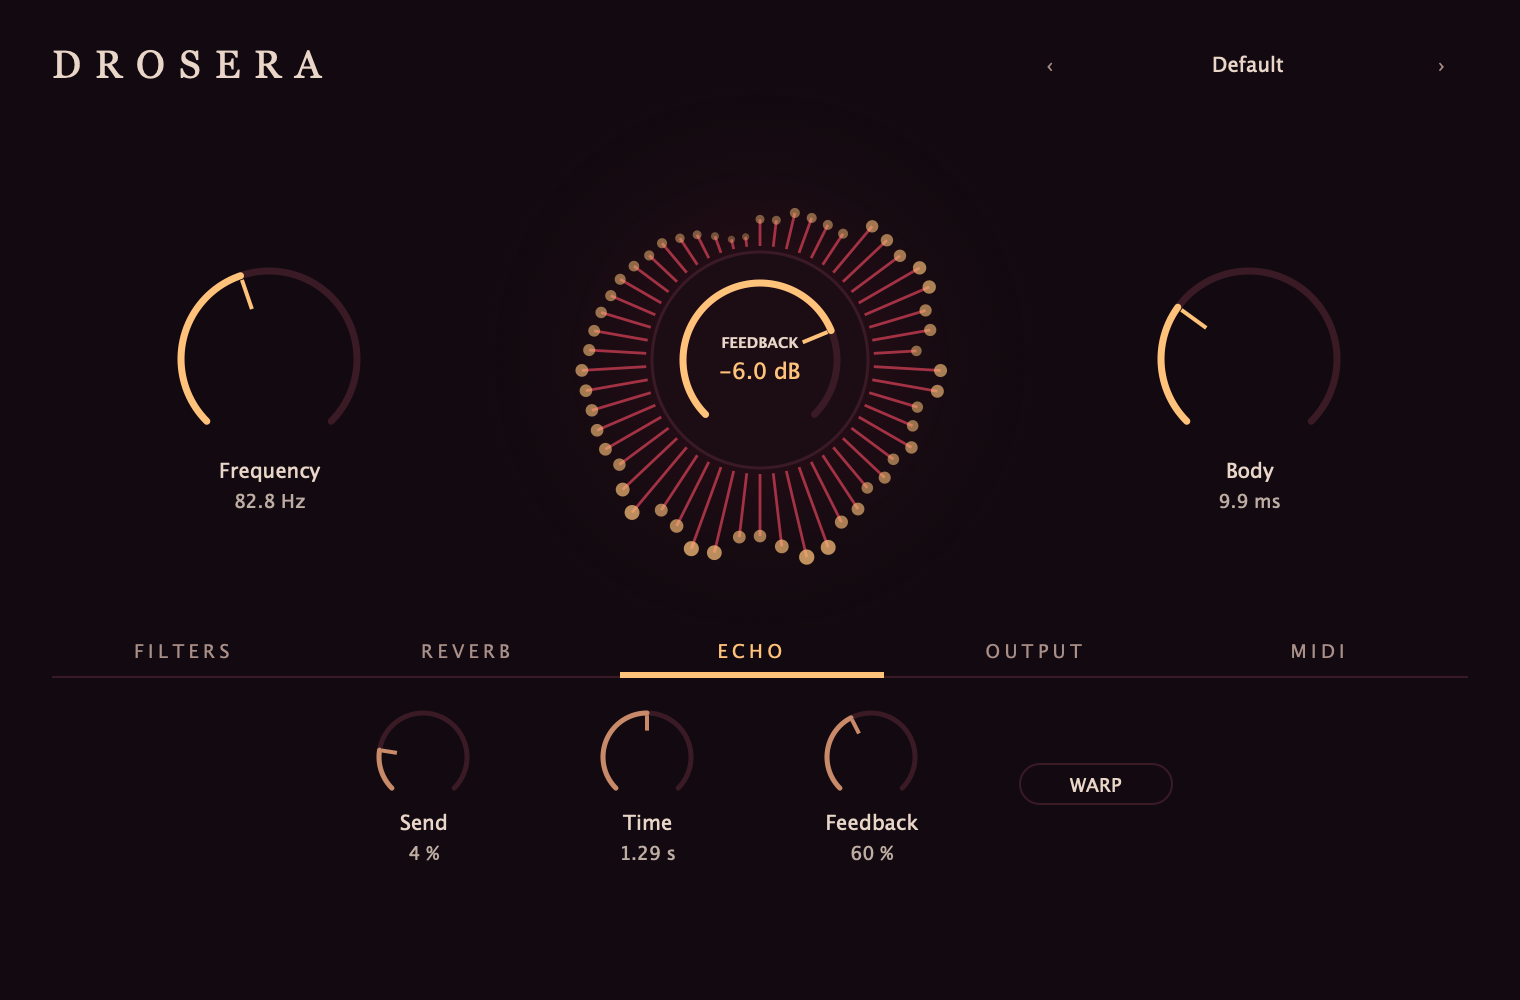
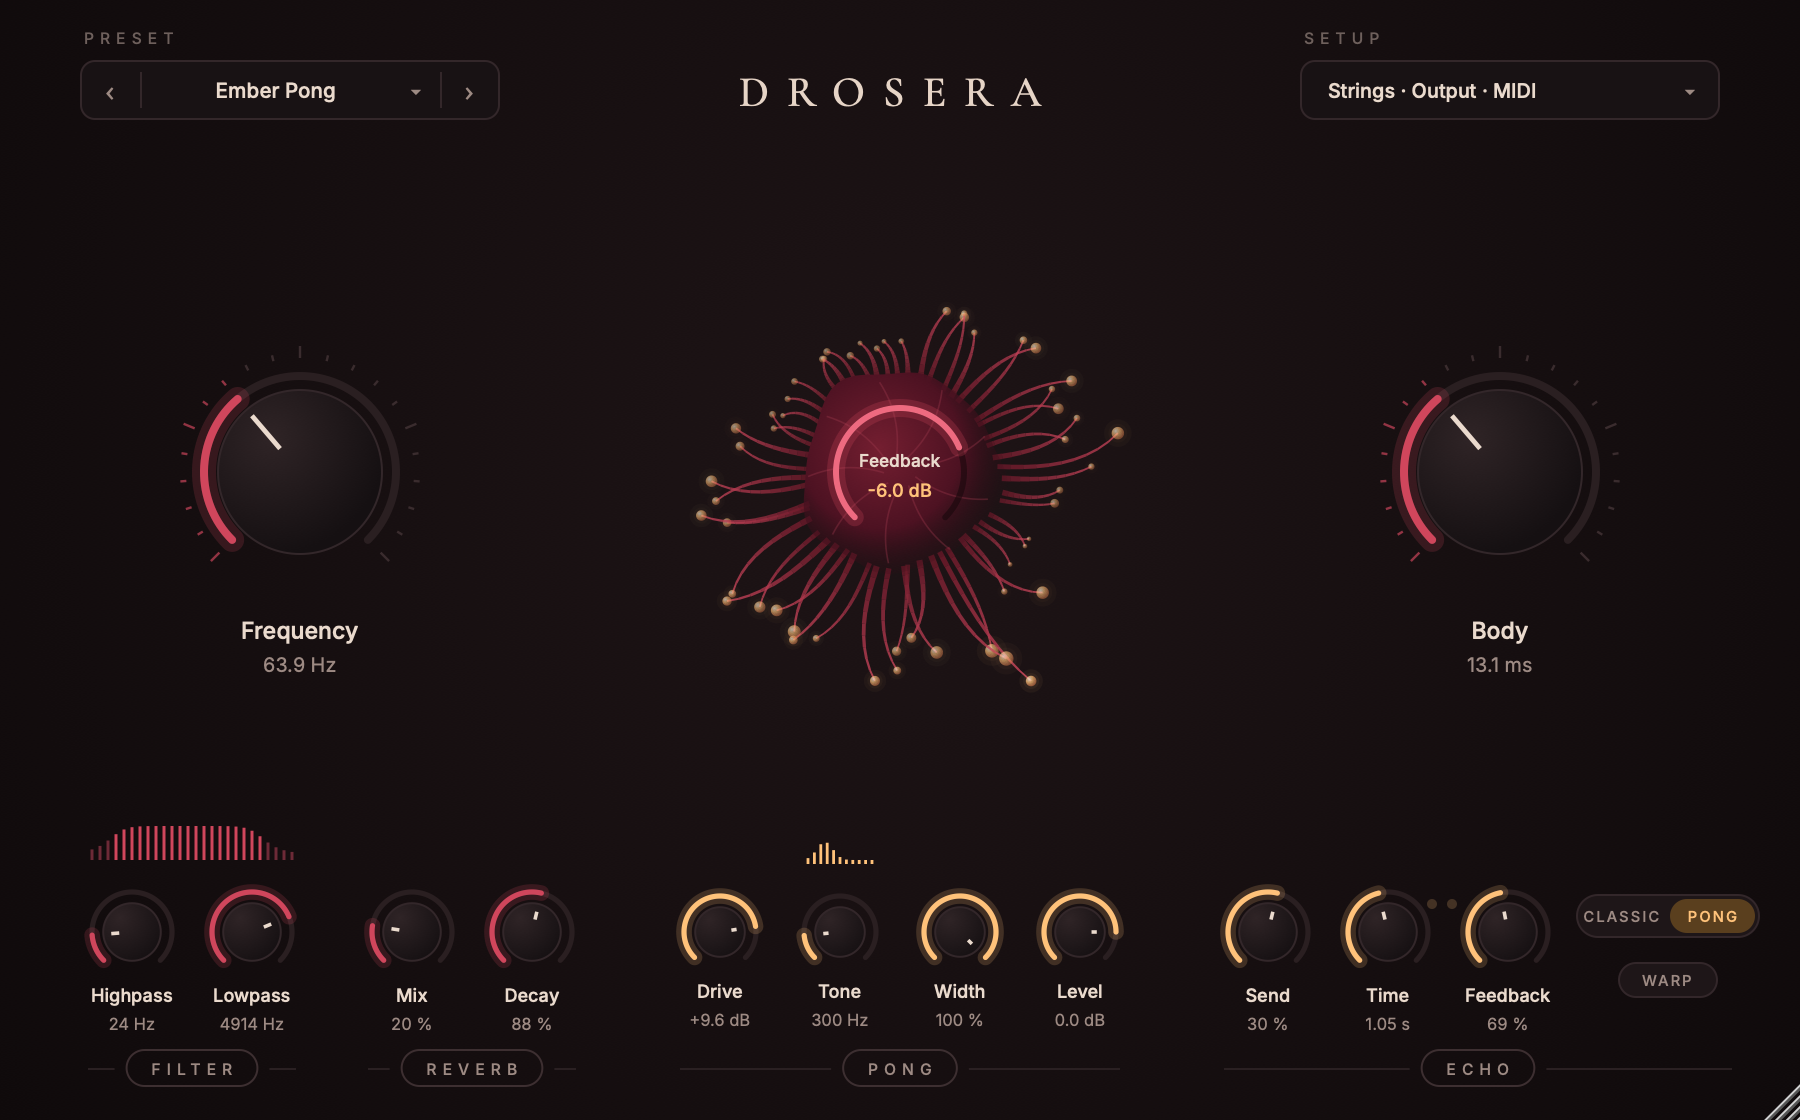
Describe the new window in the README and the build guide, and list the embedded fonts

diff --git a/README.md b/README.md
@@ -1,12 +1,12 @@
 # Drosera
 
-![Drosera's interface: a sundew whose tentacles show the sound's spectrum, with Feedback at its heart](docs/images/drosera.png)
+![Drosera's window: a sundew whose tentacles show the sound's spectrum, Feedback at its heart, Frequency and Body beside it, and one row of filter, reverb and echo controls below](docs/images/drosera.png)
 
 A feedback drone synth, as a VST3 plugin for macOS 11 or newer, on Apple silicon and Intel.
 
 Drosera makes sound on its own: a noise floor feeds two string resonators inside a saturating loop, and you steer
-what the loop settles on. Play it with its knobs, excite it with audio, or put it on a note with MIDI. It comes with
-15 presets.
+what the loop settles on. Play it with its knobs, excite it with audio, or put it on a note with MIDI, up to three
+notes at once. It comes with 16 presets.
 
 ## Install
 
@@ -23,6 +23,12 @@ xattr -dr com.apple.quarantine ~/Library/Audio/Plug-Ins/VST3/Drosera.vst3
 ```
 
 ## Using it
+
+Everything is on one page. In the middle, a sundew shows the sound's real spectrum: each tentacle is a frequency band,
+from the lowest at the top, clockwise, and it unfurls as its band sounds. Feedback sits at its heart, with Frequency and
+Body beside it. Below, one row holds the filters, the reverb and the echo, with its PONG controls. Red controls are
+inside the feedback loop and change what the drone sustains; amber ones come after it and colour what comes out.
+Strings, Output and MIDI open from the SETUP field. Drag the window's corner to scale it from 75 % to 150 %.
 
 See the [manual](docs/MANUAL.md) for every control, MIDI, and the known limits.
 

diff --git a/docs/BUILDING.md b/docs/BUILDING.md
@@ -43,8 +43,9 @@ Checks how MIDI notes are assigned to the three voices, with no JUCE.
 build/ui_test_artefacts/Release/ui_test
 ```
 
-Covers the interface: the spectrum path to the plant, the readouts, tabs, and what the editor shows while MIDI and WARP
-change what sounds. It opens no window on screen.
+Covers the interface: the spectrum path to the plant, the plant's shape and how it follows the sound, the filter and
+Tone arcs, the readouts, the setup panel, the window's scale, and what the editor shows while MIDI, POLY and WARP change
+what sounds. It opens no window on screen.
 
 ```bash
 build/plugin_host_test_artefacts/Release/plugin_host_test build/Drosera_artefacts/Release/VST3/Drosera.vst3 tests/fixtures/state-baseline.bin
@@ -66,6 +67,7 @@ proves the engine still renders exactly the same.
 ## Other tools
 
 - `build/pitch_probe [body] [first] [last] [step]` prints the pitch measured for a range of MIDI notes.
-- `editor_snapshot <out.png> [paramId=value | program=N | note=N | tab=N | sound=1 ...]` draws the window to an image.
-  `sound=1` renders a second of audio first, so the plant shows real sound.
+- `editor_snapshot <out.png> [paramId=value | program=N | note=N | sound=1 | setup=1 | scale=N ...]` draws the window
+  to an image. `sound=1` renders a second of audio first, so the plant shows real sound. `setup=1` opens the setup panel,
+  and `scale=N` draws the window at N times 900×560.
 - `tools/hardware-comparison/` compares the plugin against a recording of a real unit. See its `PROTOCOL.md`.

diff --git a/THIRD_PARTY_LICENSES.md b/THIRD_PARTY_LICENSES.md
@@ -9,6 +9,8 @@ Read this before distributing a binary. Nothing here is legal advice.
 | `ReverbSc`, `Tone` from that DaisySP | `third_party/DaisySP/Source/Effects/reverbsc.*`, `Filters/tone.*` | **Treat as LGPL-2.1** | See below. |
 | JUCE 8.0.9 | fetched by CMake | **AGPLv3 or commercial** | A binary built on it must comply with one of the two. |
 | VST3 SDK | inside JUCE | Steinberg proprietary or GPLv3 | See JUCE's `LICENSE.md`. |
+| Inter 4.1 (The Inter Project Authors) | `assets/fonts/Inter-*.ttf`, embedded in the plugin | SIL Open Font License 1.1, see `assets/fonts/OFL-Inter.txt` | The interface's text. Unmodified. |
+| Cormorant Garamond 4.002 (the Cormorant Project Authors) | `assets/fonts/CormorantGaramond-Medium.otf`, embedded in the plugin | SIL Open Font License 1.1, see `assets/fonts/OFL-Cormorant.txt` | The name in the header. Unmodified. |
 
 ## ReverbSc and Tone
 
